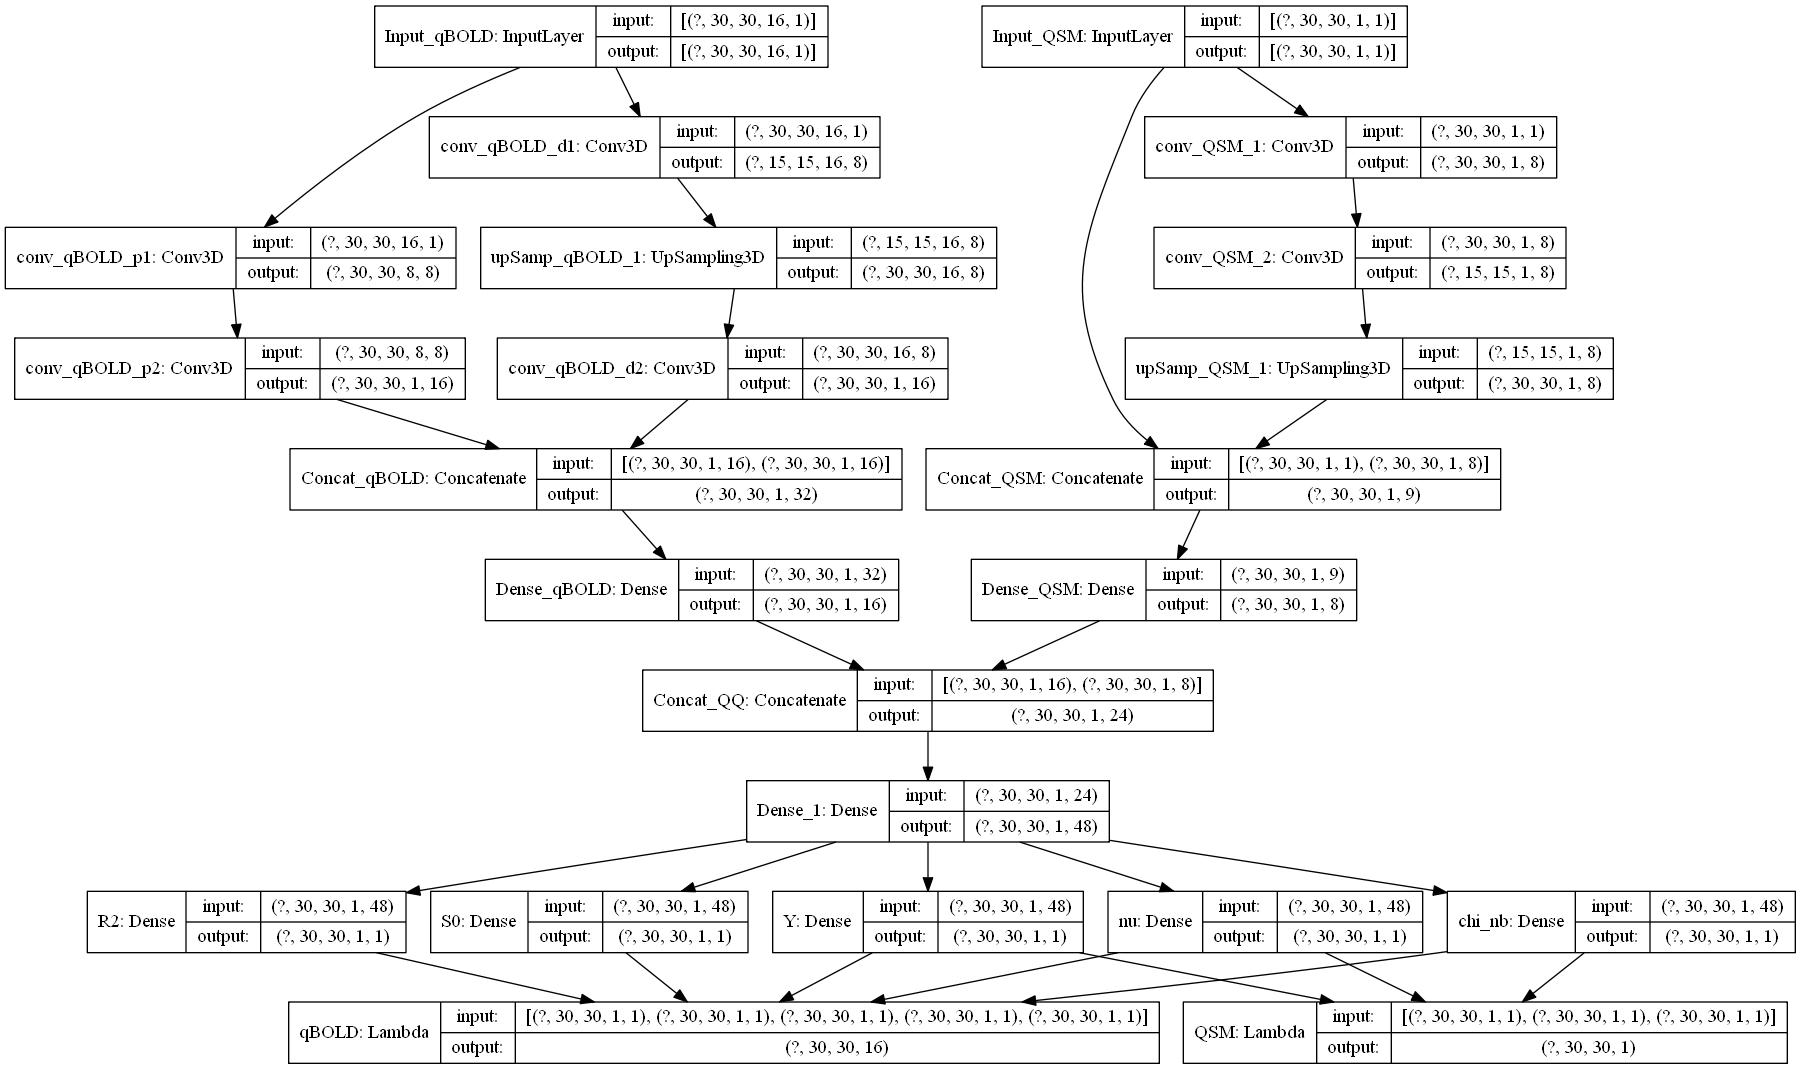
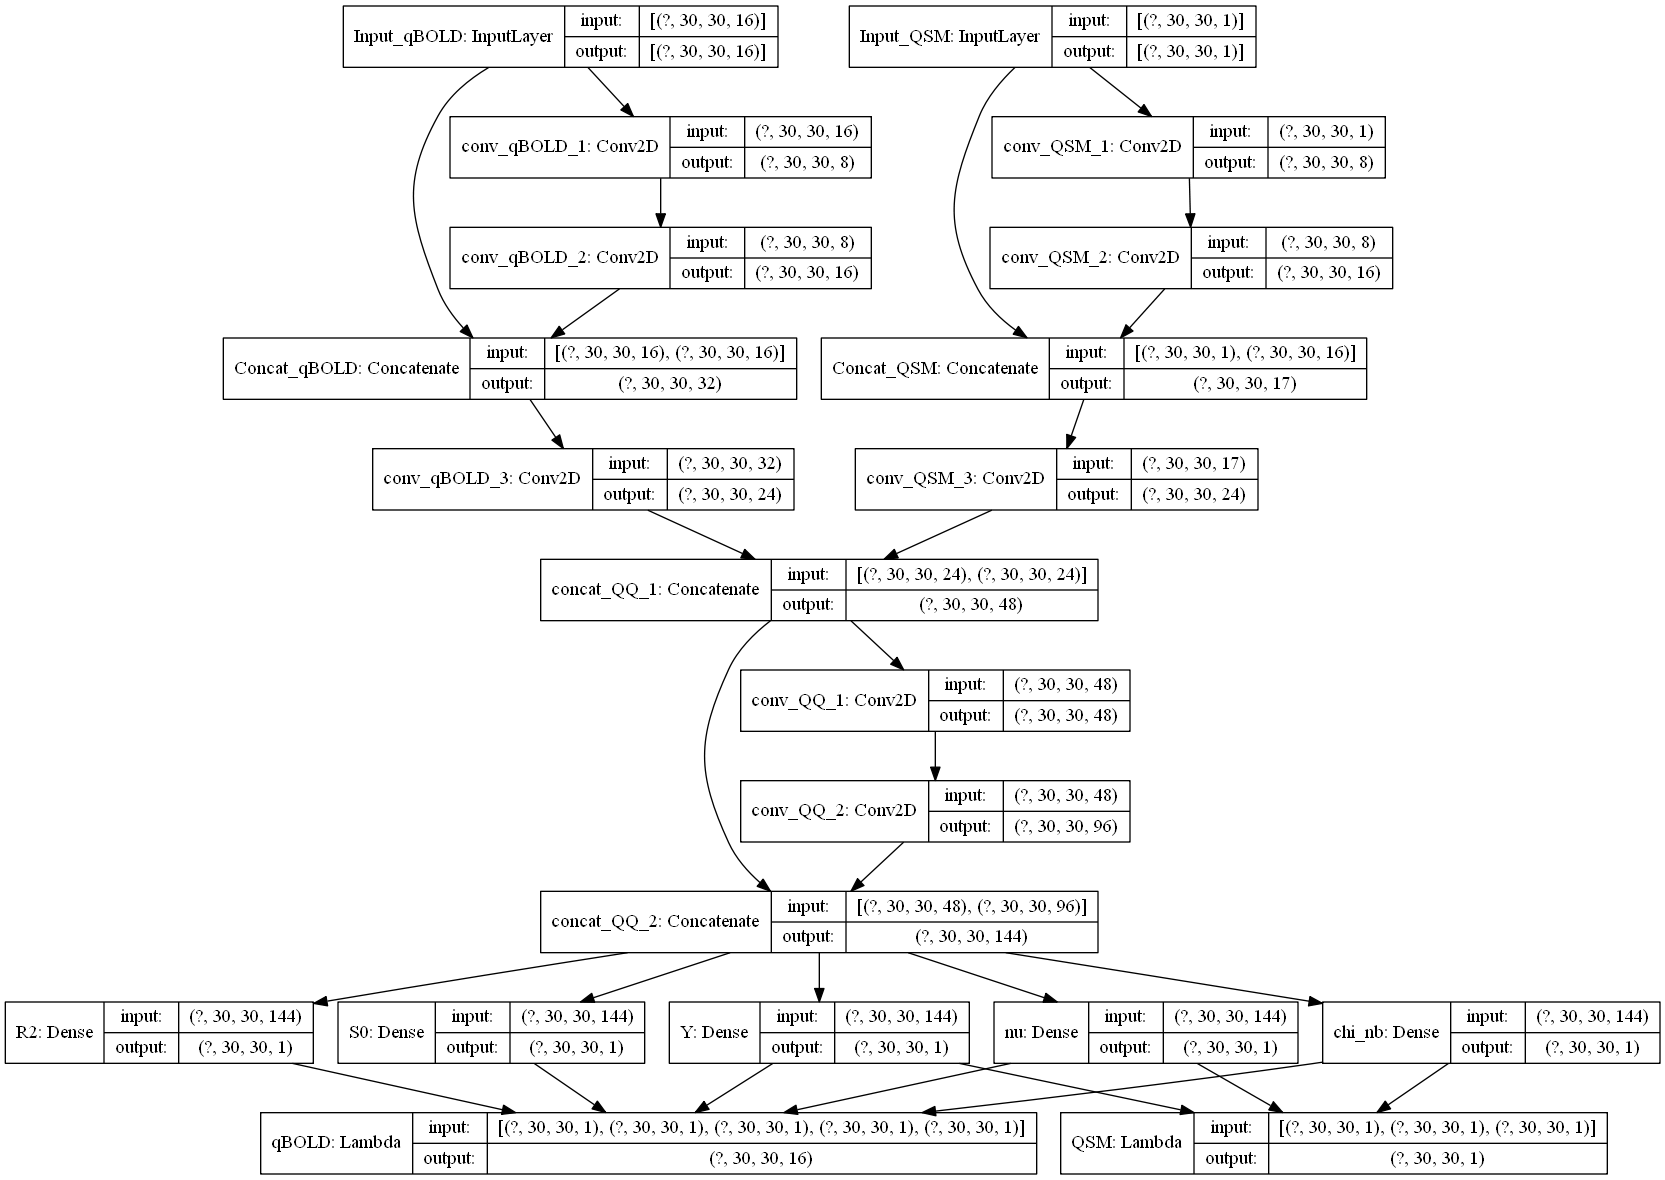
Added a Network with Conv2D instead of Conv3d

Changed region(s): [[0.0, 0.0, 0.9994, 1.0]]

diff --git a/QSM_qBOLD_2D_network_fully_conv.py b/QSM_qBOLD_2D_network_fully_conv.py
@@ -29,96 +29,89 @@ version = "no_air_0noise/"
 
 # %% Network
 
-input_qBOLD = keras.Input(shape=(30,30,16,1), name = 'Input_qBOLD')
+input_qBOLD = keras.Input(shape=(30,30,16), name = 'Input_qBOLD')
 
 input_qBOLD.shape
 input_qBOLD.dtype
 
 n=8
 
-conv_qBOLD_p1 = keras.layers.Conv3D(n,
-                  kernel_size = [1,1,9],
+conv_qBOLD_1 = keras.layers.Conv2D(n,
+                  kernel_size = 3,
                   strides=1,
-                  padding='valid',
-                  dilation_rate=1,
-                  activation='sigmoid',
-                  name='conv_qBOLD_p1')(input_qBOLD)
-
-conv_qBOLD_p2 = keras.layers.Conv3D(2*n,
-                  kernel_size = [1,1,8],
-                  strides=1,
-                  padding='valid',
-                  dilation_rate=1,
-                  activation='sigmoid',
-                  name='conv_qBOLD_p2')(conv_qBOLD_p1)
-
-
-conv_qBOLD_d1 = keras.layers.Conv3D(n,
-                  (3,3,1),
-                  strides=(2,2,1),
                   padding='same',
                   dilation_rate=1,
                   activation='sigmoid',
-                  name='conv_qBOLD_d1')(input_qBOLD)
+                  name='conv_qBOLD_1')(input_qBOLD)
 
-upSamp_qBOLD_1 = keras.layers.UpSampling3D(size=(2,2,1), name = 'upSamp_qBOLD_1'                   )(conv_qBOLD_d1)
-
-
-conv_qBOLD_d2 = keras.layers.Conv3D(2*n,
-                  kernel_size = [1,1,16],
+conv_qBOLD_2 = keras.layers.Conv2D(2*n,
+                  kernel_size = 3,
                   strides=1,
-                  padding='valid',
+                  padding='same',
                   dilation_rate=1,
                   activation='sigmoid',
-                  name='conv_qBOLD_d2')(upSamp_qBOLD_1)
+                  name='conv_qBOLD_2')(conv_qBOLD_1)
 
-concatenate_qBOLD = layers.Concatenate(name = 'Concat_qBOLD')([conv_qBOLD_p2,conv_qBOLD_d2])
-dense_layer_qBOLD = layers.Dense(16,name = 'Dense_qBOLD')(concatenate_qBOLD)
-model_qBOLD = keras.Model(inputs=input_qBOLD, outputs = dense_layer_qBOLD, name="qBOLD model")
+
+concatenate_qBOLD = layers.Concatenate(name = 'Concat_qBOLD')([input_qBOLD,conv_qBOLD_2])
+conv_qBOLD_3 =keras.layers.Conv2D(3*n,
+                  kernel_size = 3,
+                  strides=1,
+                  padding='same',
+                  dilation_rate=1,
+                  activation='sigmoid',
+                  name='conv_qBOLD_3')(concatenate_qBOLD)
+
+
+
+model_qBOLD = keras.Model(inputs=input_qBOLD, outputs = conv_qBOLD_3, name="qBOLD model")
 model_qBOLD.summary()
 keras.utils.plot_model(model_qBOLD, show_shapes=True)
 # %%
 
-input_QSM = keras.Input(shape=(30,30,1,1), name = 'Input_QSM')
-conv_QSM_1 = keras.layers.Conv3D(8,
-                  (3,3,1),
-                  strides=(1,1,1),
+input_QSM = keras.Input(shape=(30,30,1), name = 'Input_QSM')
+conv_QSM_1 = keras.layers.Conv2D(n,
+                  kernel_size=3,
+                  strides=(1),
                   padding='same',
                   dilation_rate=1,
                   activation='sigmoid',
                   name='conv_QSM_1')(input_QSM)
 
-conv_QSM_2 = keras.layers.Conv3D(8,
-                  (3,3,1),
-                  strides=(2,2,1),
+conv_QSM_2 = keras.layers.Conv2D(2*n,
+                  kernel_size=3,
+                  strides=(1),
                   padding='same',
                   dilation_rate=1,
                   activation='sigmoid',
                   name='conv_QSM_2')(conv_QSM_1)
 
-upSamp_QSM_1 = keras.layers.UpSampling3D(size=(2,2,1), name = 'upSamp_QSM_1'                   )(conv_QSM_2)
 
-concatenate_QSM = layers.Concatenate(name = 'Concat_QSM')([input_QSM,upSamp_QSM_1])
-dense_layer_QSM = layers.Dense(8,name = 'Dense_QSM')(concatenate_QSM)
-model_QSM = keras.Model(inputs=input_QSM, outputs = dense_layer_QSM, name="QSM model")
+concatenate_QSM = layers.Concatenate(name = 'Concat_QSM')([input_QSM,conv_QSM_2])
+conv_QSM_3 = layers.Conv2D(3*n,3,padding='same',name = 'conv_QSM_3')(concatenate_QSM)
+model_QSM = keras.Model(inputs=input_QSM, outputs = conv_QSM_3, name="QSM model")
 model_QSM.summary()
 keras.utils.plot_model(model_QSM, show_shapes=True)
 # %%
-concatenate_layer = layers.Concatenate(name = 'Concat_QQ')([model_qBOLD.output,model_QSM.output])
+concat_QQ_1 = layers.Concatenate(name = 'concat_QQ_1')([model_qBOLD.output,model_QSM.output])
 
-dense_layer_1 = layers.Dense(48,name = 'Dense_1')(concatenate_layer)
+conv_QQ_1 = layers.Conv2D(48,3,padding='same',name = 'conv_QQ_1')(concat_QQ_1)
+conv_QQ_2 = layers.Conv2D(2*48,3,padding='same',name = 'conv_QQ_2')(conv_QQ_1)
+
+concat_QQ_2 = layers.Concatenate(name = 'concat_QQ_2')([concat_QQ_1,conv_QQ_2])
+
 #dense_layer_2 = layers.Dense(96,name = 'Dense_2')(dense_layer_1)
 
 
-dense_layer_3a = layers.Dense(1,activation="sigmoid", name = 'S0')(    dense_layer_1)
-dense_layer_3b = layers.Dense(1,activation="sigmoid", name = 'R2')(    dense_layer_1)
-dense_layer_3c = layers.Dense(1,activation="sigmoid", name = 'Y')(     dense_layer_1)
-dense_layer_3d = layers.Dense(1,activation="sigmoid", name = 'nu')(    dense_layer_1)
-dense_layer_3e = layers.Dense(1,activation="sigmoid", name = 'chi_nb')(dense_layer_1)
+dense_layer_3a = layers.Dense(1,activation="sigmoid", name = 'S0')(    concat_QQ_2)
+dense_layer_3b = layers.Dense(1,activation="sigmoid", name = 'R2')(    concat_QQ_2)
+dense_layer_3c = layers.Dense(1,activation="sigmoid", name = 'Y')(     concat_QQ_2)
+dense_layer_3d = layers.Dense(1,activation="sigmoid", name = 'nu')(    concat_QQ_2)
+dense_layer_3e = layers.Dense(1,activation="sigmoid", name = 'chi_nb')(concat_QQ_2)
 
 #before_lambda_model = keras.Model(input_layer, dense_layer_3, name="before_lambda_model")
 
-Params_Layer = layers.concatenate(name = 'Output_Params',inputs=[dense_layer_3a,dense_layer_3b,dense_layer_3c,dense_layer_3d,dense_layer_3e],axis=-2)
+#Params_Layer = layers.concatenate(name = 'Output_Params',inputs=[dense_layer_3a,dense_layer_3b,dense_layer_3c,dense_layer_3d,dense_layer_3e],axis=-2)
 #Params_Layer = layers.Concatenate(name = 'Output_Params')([dense_layer_3b,dense_layer_3c])
 model_params = keras.Model(inputs=[input_qBOLD,input_QSM],outputs=[dense_layer_3a,dense_layer_3b,dense_layer_3c,dense_layer_3d,dense_layer_3e],name="Params_model")
 model_params.summary()
@@ -203,7 +196,7 @@ plot_loss(history_params,'nu_')
 plot_loss(history_params,'chi_nb_')
 
 #%%
-model_params.save("models/"+version+ "Model_2D_Params_before_qqbold.h5")
+model_params.save("models/"+version+ "Model_2D_fully_conv_Params_before_qqbold.h5")
 
 # %%
 #model_params = keras.models.load_model("models/"+version+ "Model_2D_Params_before_qqbold.h5")
